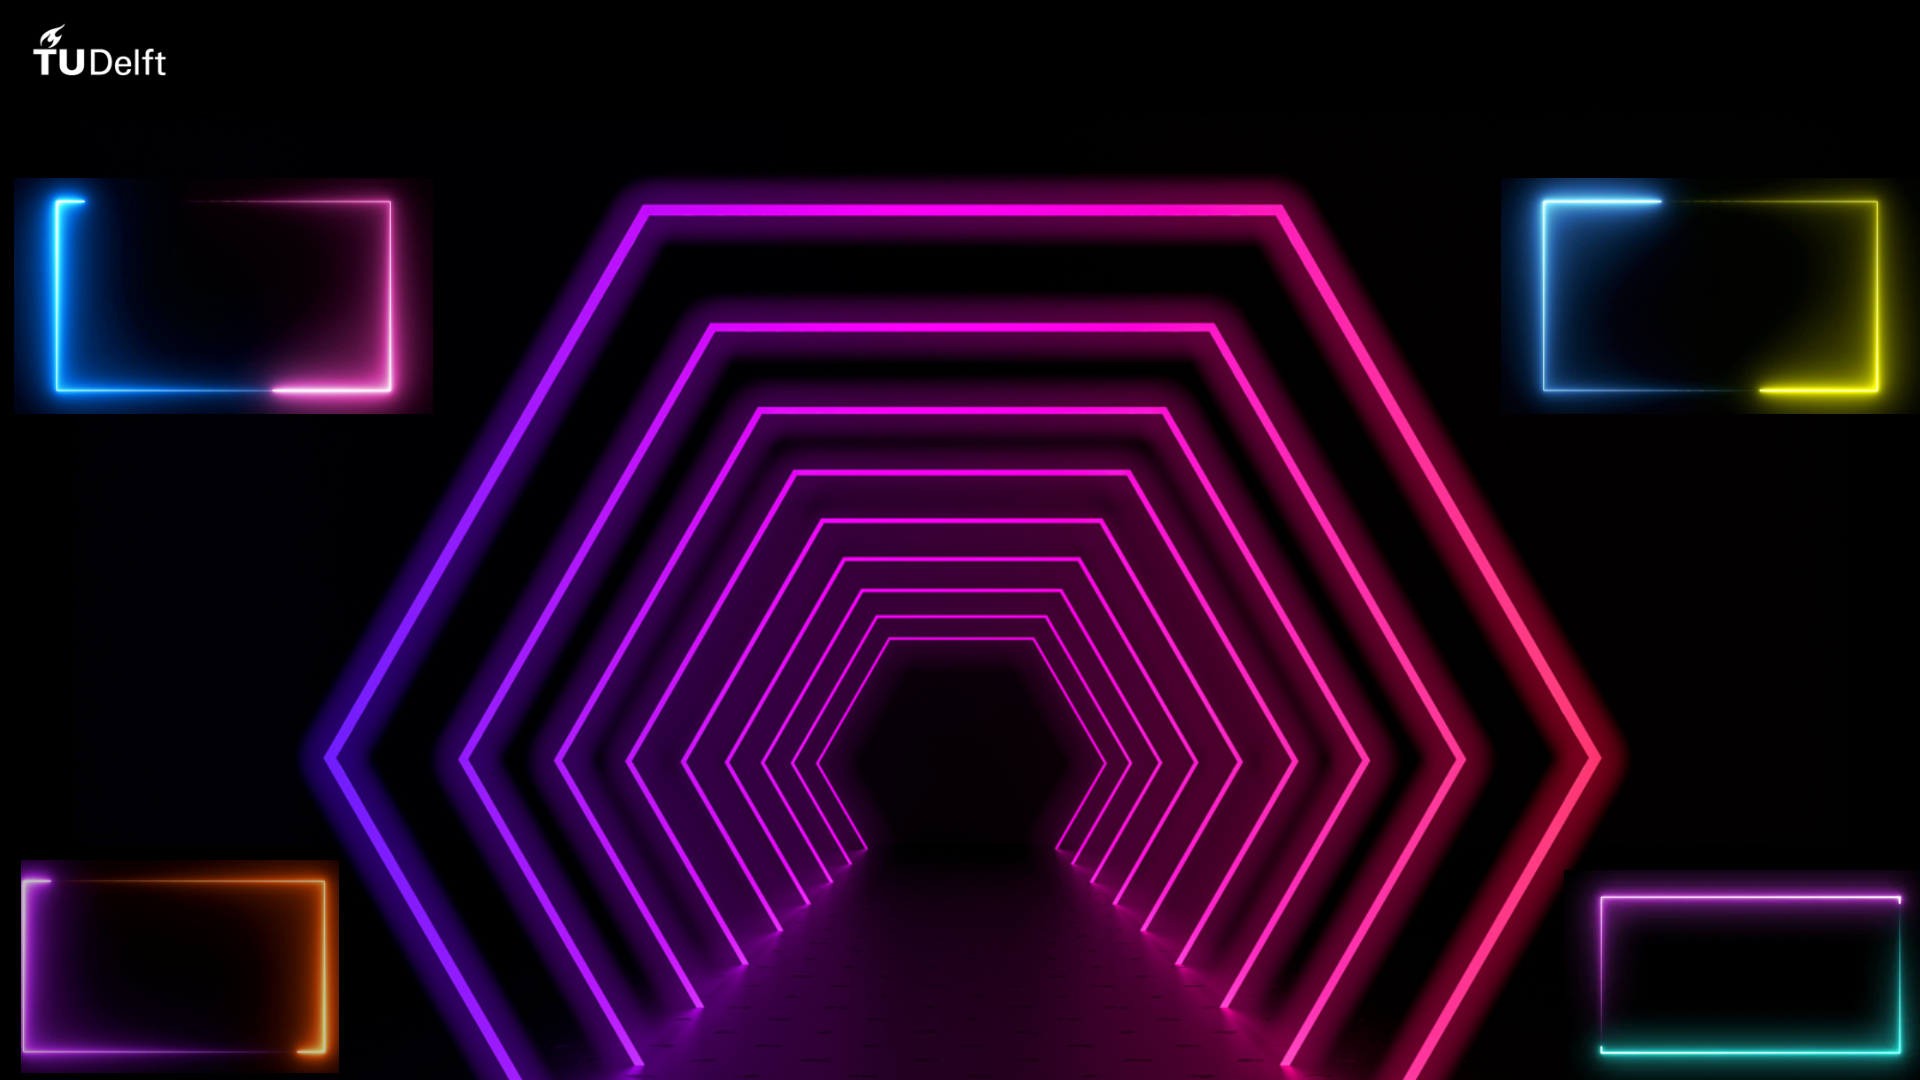
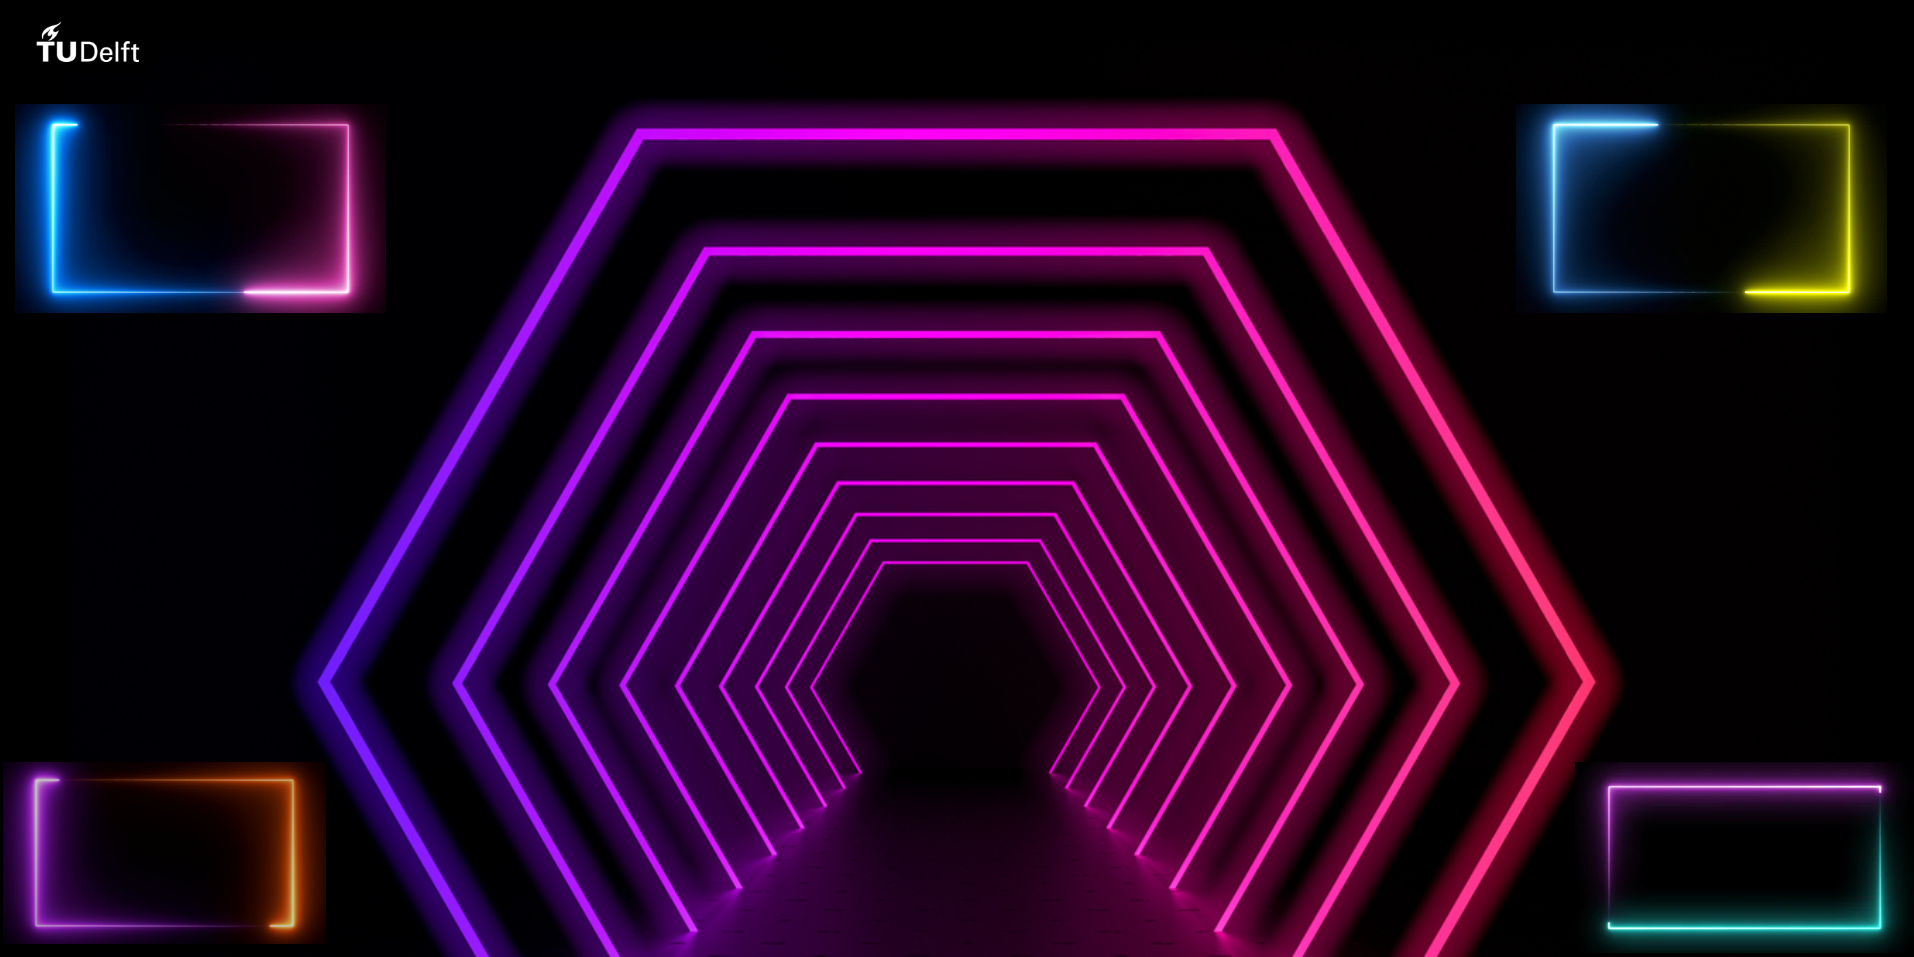
BackGroundFixed

diff --git a/mastermind/public/stylesheets/splash.css b/mastermind/public/stylesheets/splash.css
@@ -14,6 +14,7 @@
 	background: #222;
 	display: none;
 }
+
 .too-small-overlay h1 {
 	color: #FFF;
 	margin-left: 20%;
@@ -31,10 +32,11 @@ html, body {
 }
 
 body {
-	background-image: url('../../public/images/Web\ 1920\ –\ 1.png');
+	background-image: url('../../public/images/background.png');
 	background-repeat: no-repeat;
 	background-size: cover;
-	background-position: right left;
+	background-attachment: fixed;
+	background-position: center bottom 0px top -20px;
 }
 
 
@@ -54,8 +56,8 @@ h1 {
 	color: #F4F3F3;
     font-family: 'Bungee Shade', cursive;
 	font-size: 80px;
-	margin-left: 400px;
-	margin-top: -50px;
+	margin-left: 425px;
+	margin-top: -70px;
 }
 
 h1:hover {
